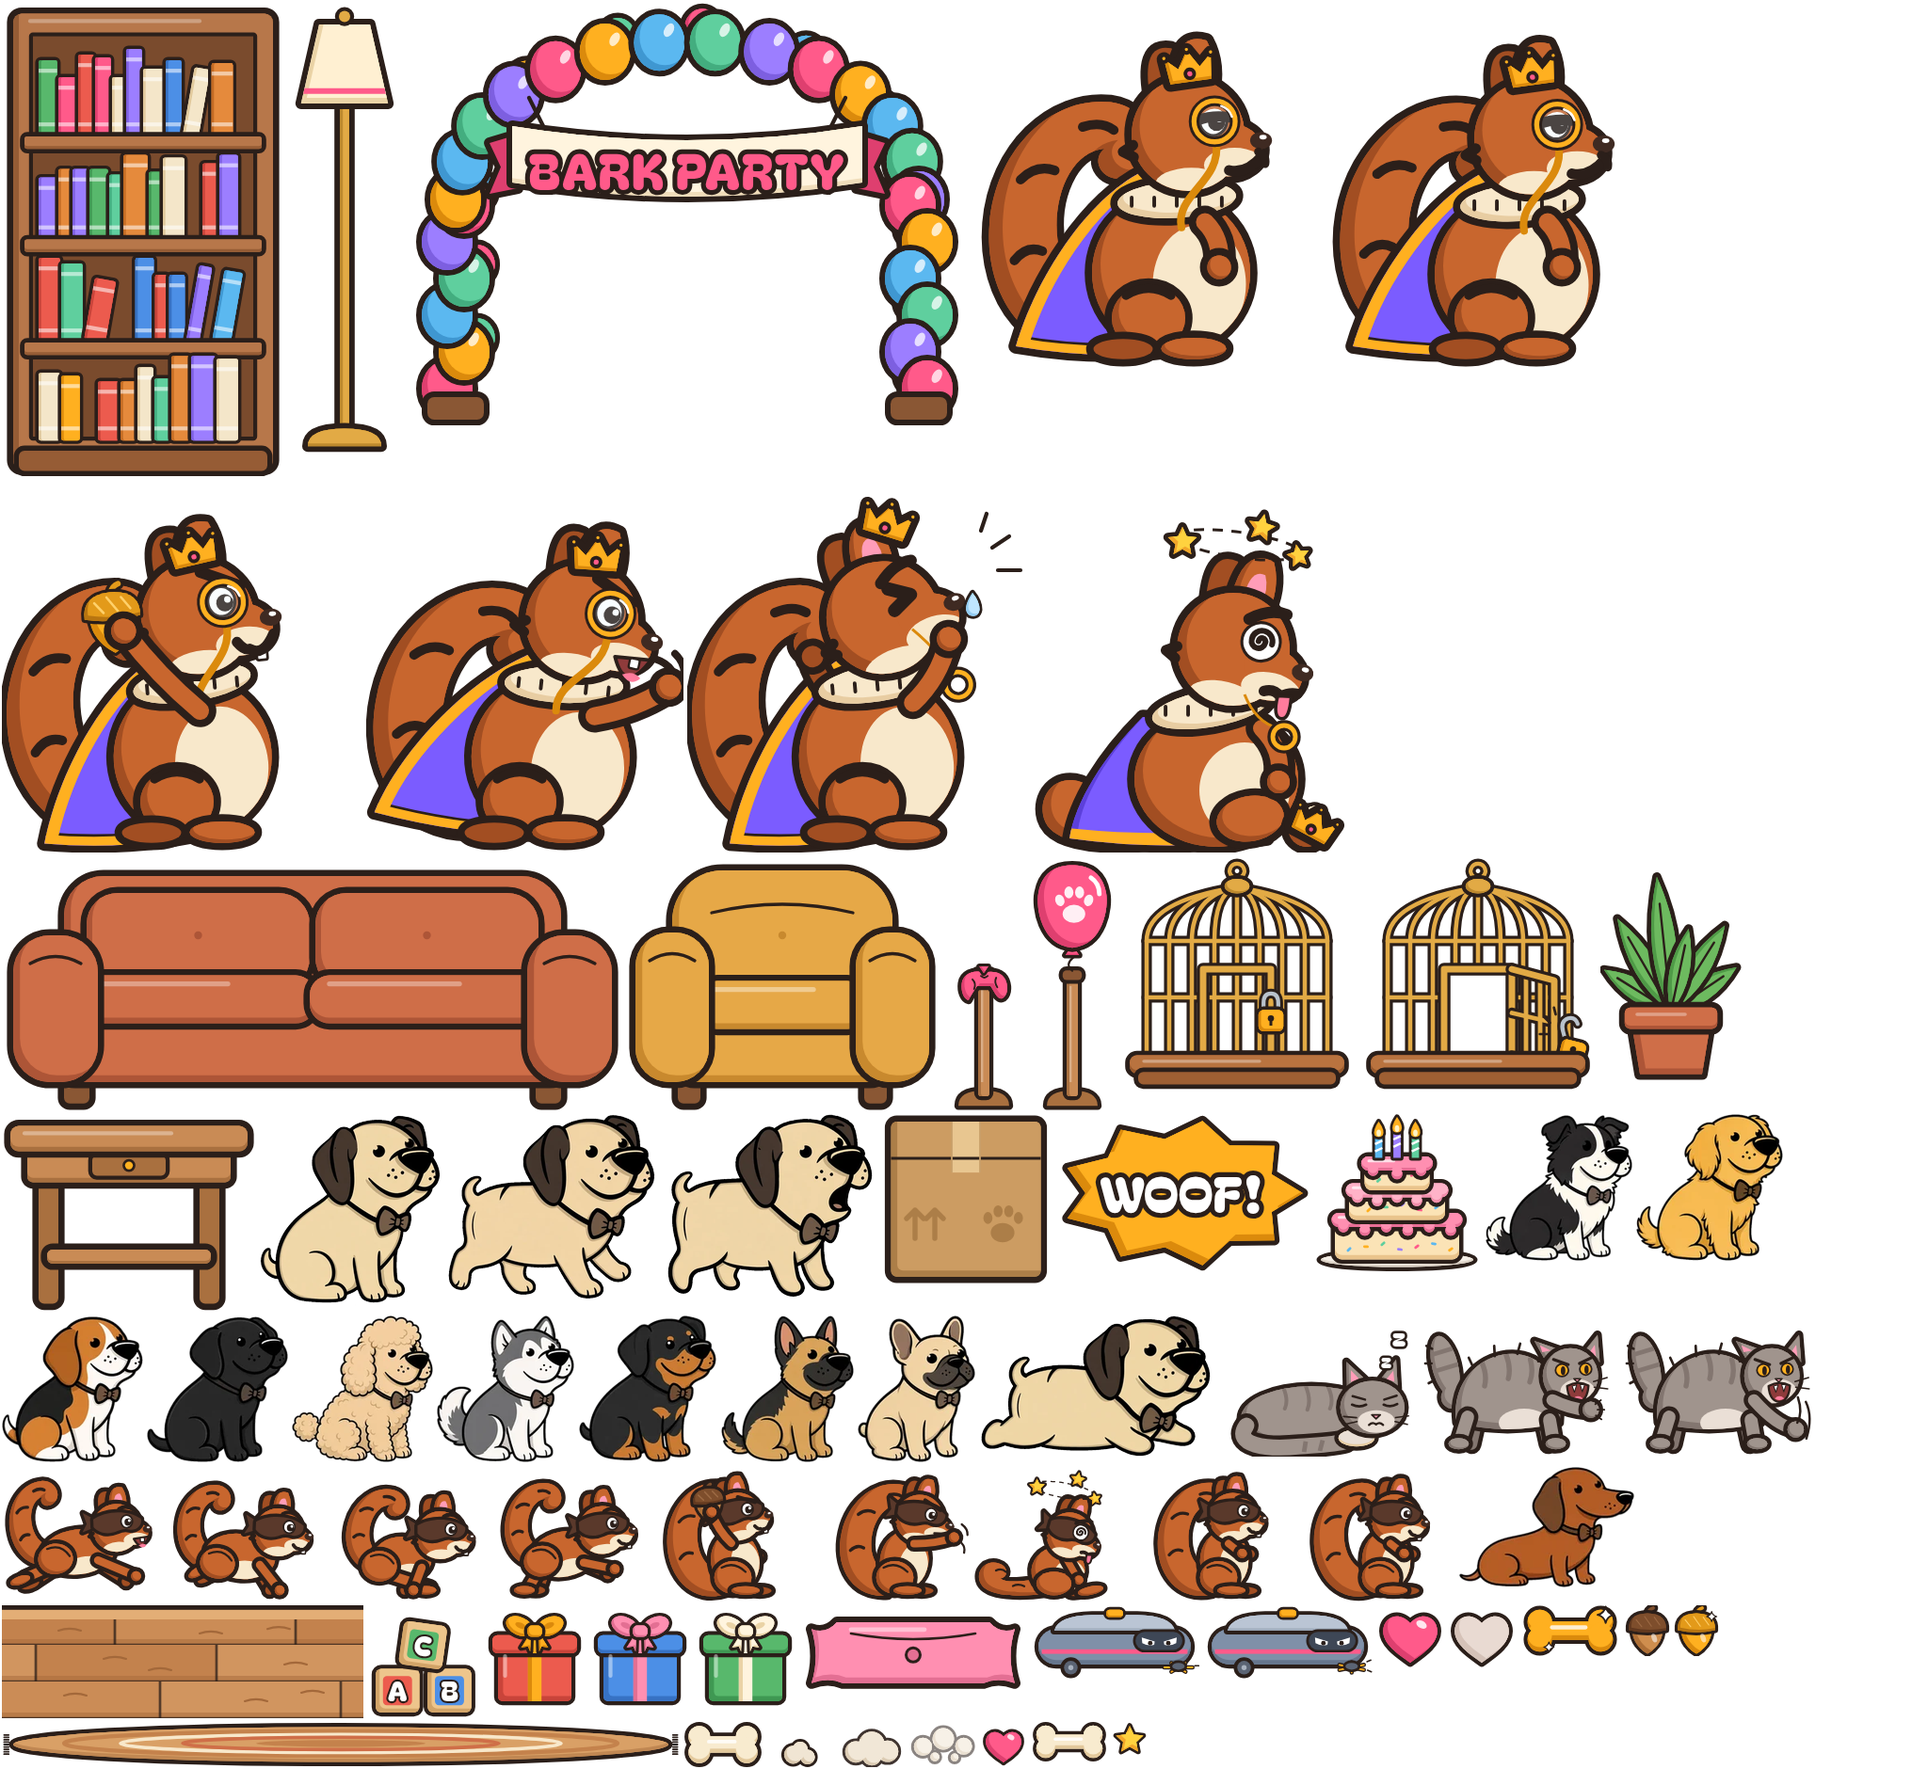
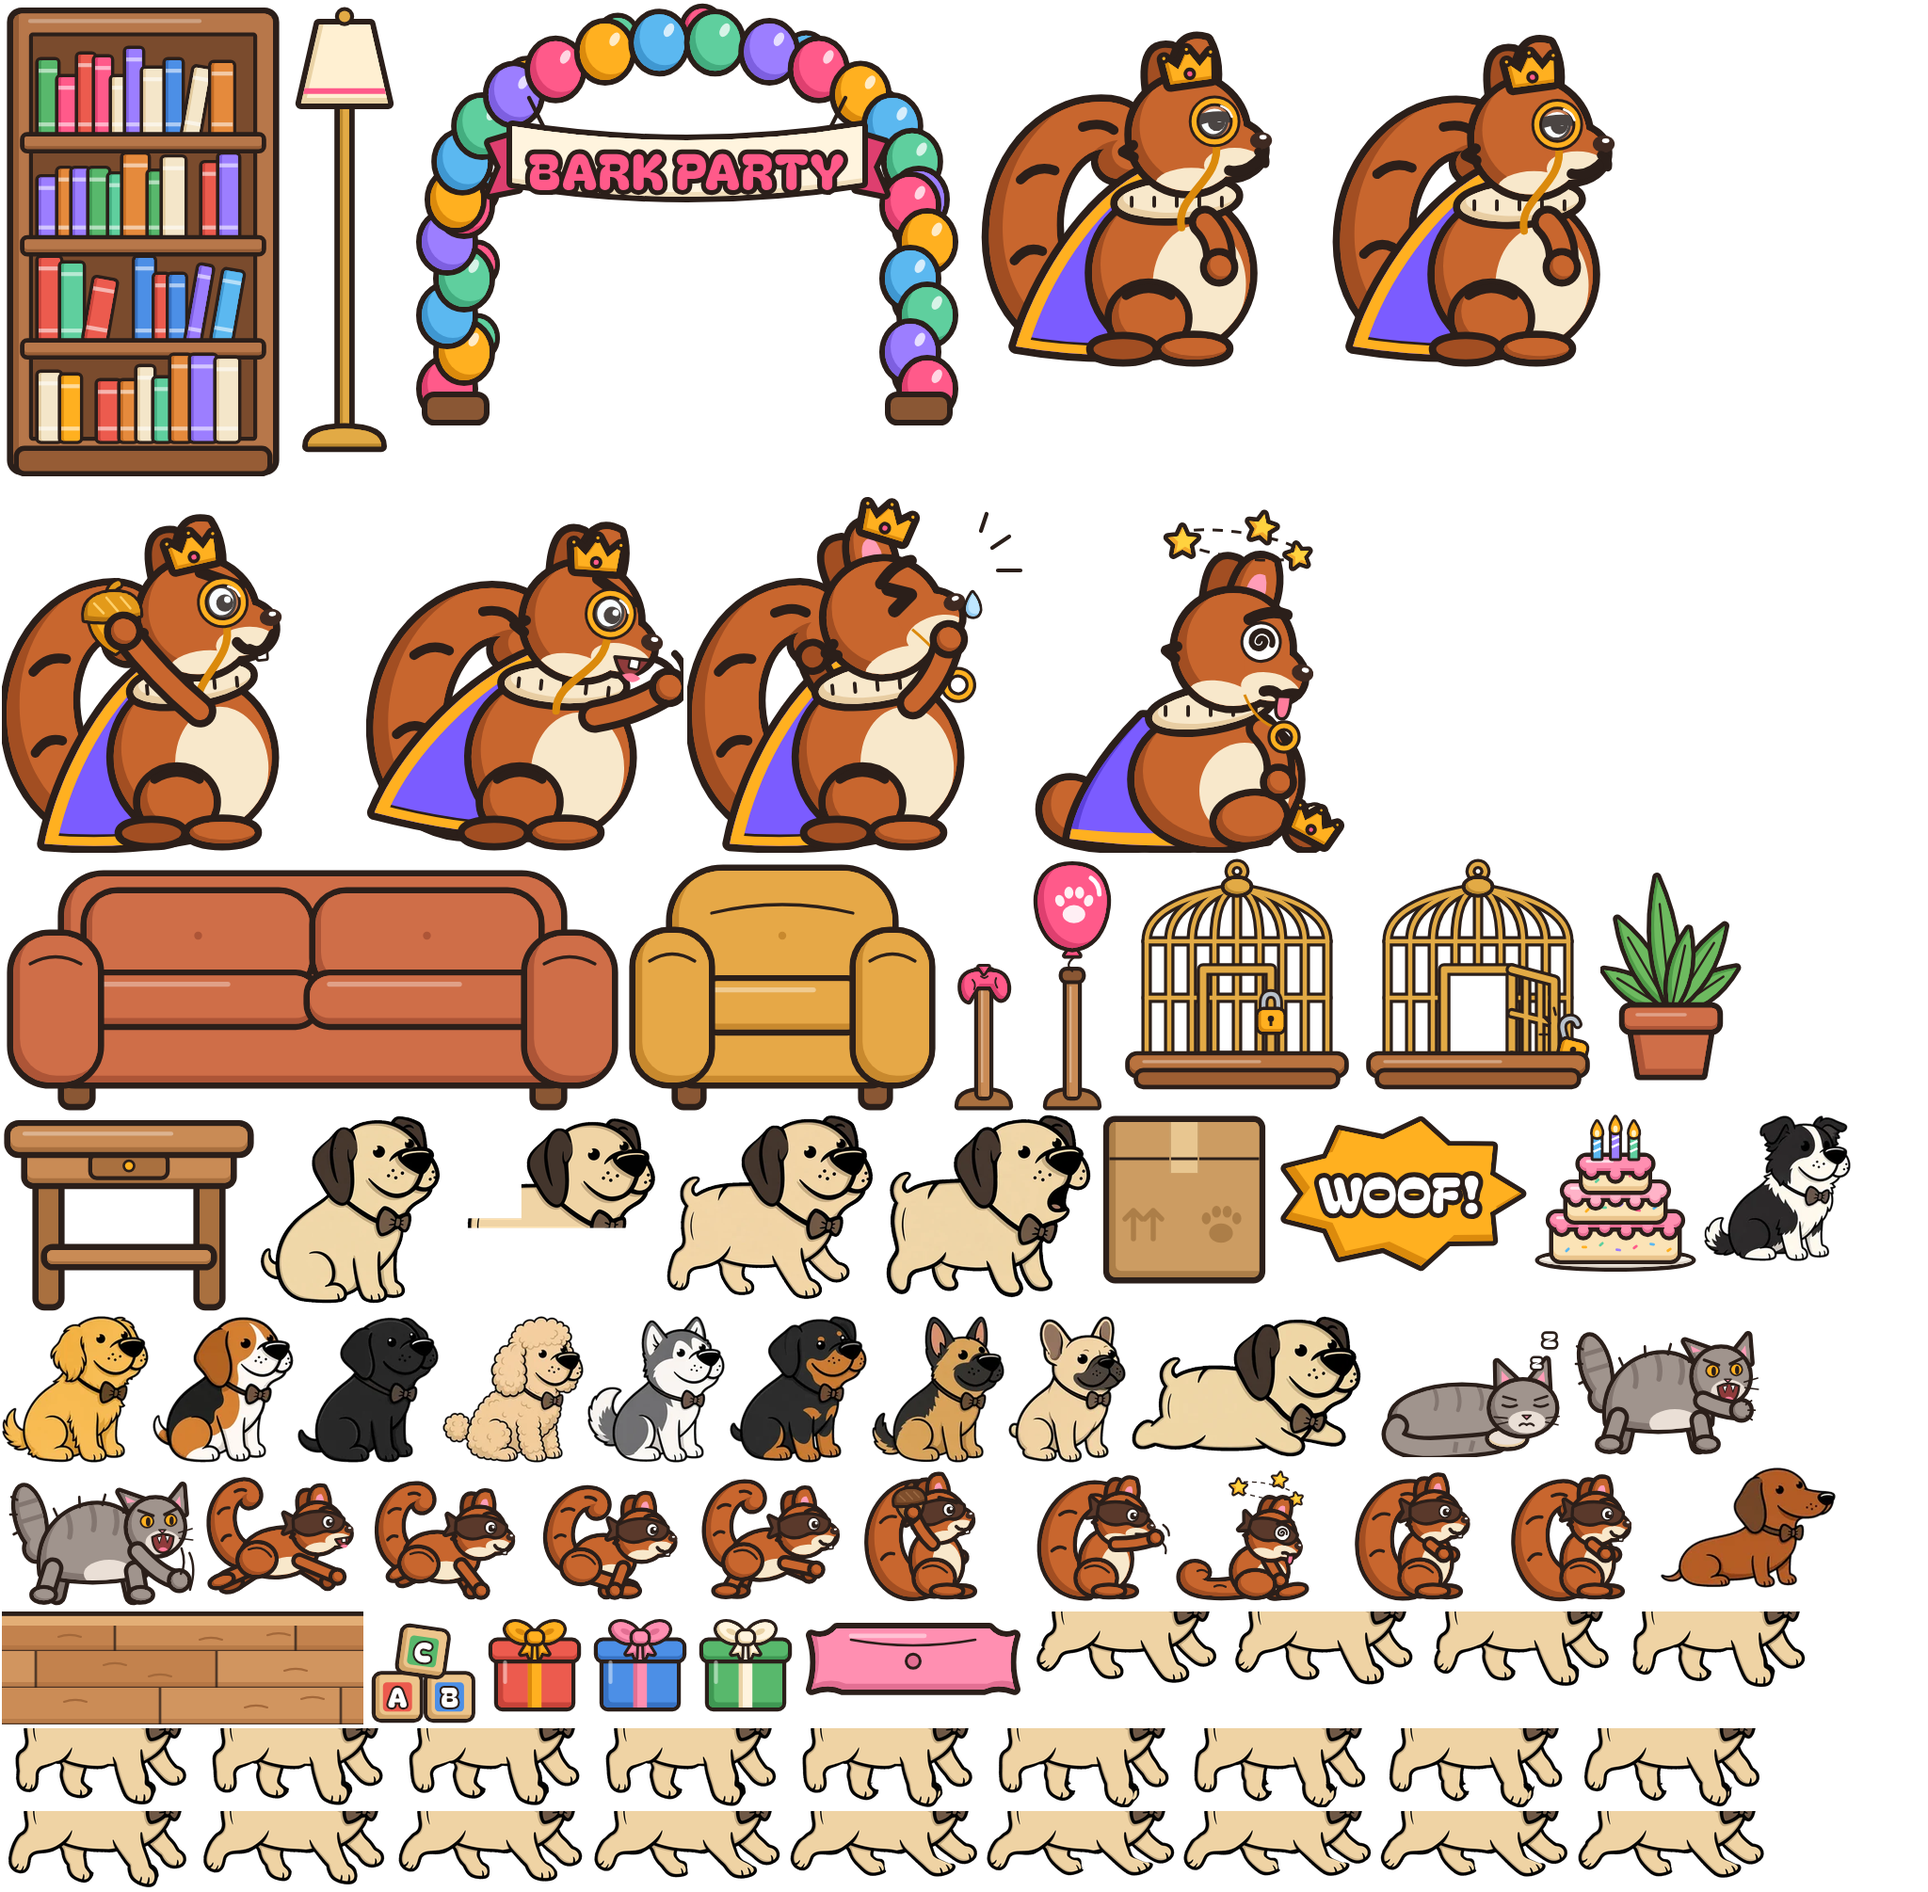
Run the hero with the real Dog Better pup puppet
The pup's body, 25-frame leg stride and tail wag from the Dog Better
puppet sheets are packed into the atlas and drawn as one piece that
squashes and tilts together. Legs follow distance run, tuck in the air
and stand still when blocked.

Claude-Session: https://claude.ai/code/session_011iqiMaCLxTqvjCP6GPtuAt

diff --git a/src/game/render/buildFrame.ts b/src/game/render/buildFrame.ts
@@ -221,7 +221,10 @@ export function buildFrame(world: World, setup: FrameSetup, out = new OpList()):
     sprite(dogSprite(dog), p.x - 30 - i * 6, y, { scale: 0.92, syScale: squash, sxScale: 1 / Math.sqrt(squash) });
   });
 
-  drawHero(world, sprite);
+  drawHero(world, sprite, (name, cx, cy, w, h, rot, alpha) => {
+    const f = atlas.frames[name];
+    if (f) out.push(f[0], f[1], f[2], f[3], f[4], sx(cx), sy(cy), w * k, h * k, rot, alpha, 0);
+  });
 
   // The boss.
   const b = world.boss;
@@ -259,7 +262,41 @@ type SpriteFn = (
   opts?: { flip?: boolean; rot?: number; alpha?: number; scale?: number; sxScale?: number; syScale?: number },
 ) => void;
 
-function drawHero(world: World, sprite: SpriteFn) {
+/** Draws a sprite centred at world (cx, cy) with an exact world size. */
+type PartFn = (name: SpriteName, cx: number, cy: number, w: number, h: number, rot: number, alpha: number) => void;
+
+// The Dog Better puppet: pieces placed in the walking sticker's 802 x 714 px canvas (pupFrames.json).
+const PUP_CANVAS = { w: 802, h: 714 };
+const PUP_S = SPRITES.pup_base.w / PUP_CANVAS.w;
+const LEGS_BOX = [6, 420, 728, 714];
+const TAIL_BOX = [72, 229, 292, 392];
+const LEG_FRAMES = 25;
+const TAIL_FRAMES = 11;
+
+function drawPuppet(
+  part: PartFn,
+  x: number,
+  y: number,
+  o: { rot: number; alpha: number; sxScale: number; syScale: number; legs: SpriteName; tail: number },
+) {
+  const H = SPRITES.pup_base.h * o.syScale;
+  const cos = Math.cos(o.rot);
+  const sin = Math.sin(o.rot);
+  // Place a piece by its box in canvas px: squash about the paws, then turn about the pup's middle.
+  const place = (name: SpriteName, box: number[]) => {
+    const bx = ((box[0] + box[2]) / 2 - PUP_CANVAS.w / 2) * PUP_S * o.sxScale;
+    const by = (PUP_CANVAS.h - (box[1] + box[3]) / 2) * PUP_S * o.syScale - H / 2;
+    const w = (box[2] - box[0]) * PUP_S * o.sxScale;
+    const h = (box[3] - box[1]) * PUP_S * o.syScale;
+    // Screen rotation is clockwise for positive angles; in world space (y up) that is the inverse turn.
+    part(name, x + bx * cos + by * sin, y + H / 2 - bx * sin + by * cos, w, h, o.rot, o.alpha);
+  };
+  place('pup_base', [0, 0, PUP_CANVAS.w, PUP_CANVAS.h]);
+  place(`pup_tail_${o.tail}` as SpriteName, TAIL_BOX);
+  place(o.legs, LEGS_BOX);
+}
+
+function drawHero(world: World, sprite: SpriteFn, part: PartFn) {
   const h = world.hero;
   if (world.phase === 'respawn' && world.phaseT < 0.9) return;
   const t = world.t;
@@ -278,8 +315,8 @@ function drawHero(world: World, sprite: SpriteFn) {
     case 'run': {
       // A bouncy gallop: two bounces per stride with a little rock.
       const phase = h.stride * Math.PI * 2;
-      lift = Math.abs(Math.sin(phase)) * 5;
-      rot = Math.sin(phase) * 0.06;
+      lift = Math.abs(Math.sin(phase)) * 2.5;
+      rot = Math.sin(phase) * 0.03;
       break;
     }
     case 'jump':
@@ -305,5 +342,15 @@ function drawHero(world: World, sprite: SpriteFn) {
       lift = Math.abs(Math.sin(t * 6)) * 14;
       break;
   }
-  sprite(name, h.x, h.y + lift, { rot, alpha: flicker, sxScale, syScale });
+  if (name !== 'pup_walk') {
+    sprite(name, h.x, h.y + lift, { rot, alpha: flicker, sxScale, syScale });
+    return;
+  }
+  // Running and airborne: the real Dog Better puppet, legs driven by distance run, tail always wagging.
+  let legs: SpriteName = `pup_leg_${Math.floor(h.stride * LEG_FRAMES) % LEG_FRAMES}` as SpriteName;
+  if (!h.onGround) legs = h.vy > 0 ? 'pup_leg_6' : 'pup_leg_18';
+  if (h.blocked) legs = 'pup_leg_rest';
+  // The tail sheet is one full wag, so it loops (2.4 wags a second while trotting, as in Dog Better).
+  const tail = Math.floor(t * 2.4 * (TAIL_FRAMES - 1)) % (TAIL_FRAMES - 1);
+  drawPuppet(part, h.x, h.y + lift, { rot, alpha: flicker, sxScale, syScale, legs, tail });
 }

diff --git a/src/game/sprites.ts b/src/game/sprites.ts
@@ -13,6 +13,45 @@ export const SPRITES = {
   pup_bark: { w: 76, h: 66 },
   pup_down: { w: 82, h: 50 },
   pup_sit: { w: 64, h: 68 },
+  // Dog Better pup puppet: body, leg stride (every other frame of 49), rest legs and tail wag.
+  pup_base: { w: 76, h: 67.66 },
+  pup_leg_0: { w: 68.42, h: 27.86 },
+  pup_leg_1: { w: 68.42, h: 27.86 },
+  pup_leg_2: { w: 68.42, h: 27.86 },
+  pup_leg_3: { w: 68.42, h: 27.86 },
+  pup_leg_4: { w: 68.42, h: 27.86 },
+  pup_leg_5: { w: 68.42, h: 27.86 },
+  pup_leg_6: { w: 68.42, h: 27.86 },
+  pup_leg_7: { w: 68.42, h: 27.86 },
+  pup_leg_8: { w: 68.42, h: 27.86 },
+  pup_leg_9: { w: 68.42, h: 27.86 },
+  pup_leg_10: { w: 68.42, h: 27.86 },
+  pup_leg_11: { w: 68.42, h: 27.86 },
+  pup_leg_12: { w: 68.42, h: 27.86 },
+  pup_leg_13: { w: 68.42, h: 27.86 },
+  pup_leg_14: { w: 68.42, h: 27.86 },
+  pup_leg_15: { w: 68.42, h: 27.86 },
+  pup_leg_16: { w: 68.42, h: 27.86 },
+  pup_leg_17: { w: 68.42, h: 27.86 },
+  pup_leg_18: { w: 68.42, h: 27.86 },
+  pup_leg_19: { w: 68.42, h: 27.86 },
+  pup_leg_20: { w: 68.42, h: 27.86 },
+  pup_leg_21: { w: 68.42, h: 27.86 },
+  pup_leg_22: { w: 68.42, h: 27.86 },
+  pup_leg_23: { w: 68.42, h: 27.86 },
+  pup_leg_24: { w: 68.42, h: 27.86 },
+  pup_leg_rest: { w: 68.42, h: 27.86 },
+  pup_tail_0: { w: 20.85, h: 15.45 },
+  pup_tail_1: { w: 20.85, h: 15.45 },
+  pup_tail_2: { w: 20.85, h: 15.45 },
+  pup_tail_3: { w: 20.85, h: 15.45 },
+  pup_tail_4: { w: 20.85, h: 15.45 },
+  pup_tail_5: { w: 20.85, h: 15.45 },
+  pup_tail_6: { w: 20.85, h: 15.45 },
+  pup_tail_7: { w: 20.85, h: 15.45 },
+  pup_tail_8: { w: 20.85, h: 15.45 },
+  pup_tail_9: { w: 20.85, h: 15.45 },
+  pup_tail_10: { w: 20.85, h: 15.45 },
 
   // Dog Better breed dogs (sitting portraits), used for rescued friends
   dog_beagle: { w: 50, h: 52 },

diff --git a/src/game/sim/world.ts b/src/game/sim/world.ts
@@ -344,7 +344,7 @@ function stepHero(world: World, input: Input, dt: number) {
   else if (!h.onGround) h.pose = h.vy > 0 ? 'jump' : 'fall';
   else h.pose = 'run';
 
-  if (h.onGround && h.vx > 0) h.stride = (h.stride + (h.vx * dt) / 120) % 1;
+  if (h.onGround && h.vx > 0) h.stride = (h.stride + (h.vx * dt) / 90) % 1;
 }
 
 function bark(world: World) {

diff --git a/src/game/render/atlasImages.ts b/src/game/render/atlasImages.ts
@@ -1,4 +1,5 @@
 // Generated by tools/pack_atlas.py. Do not edit.
 export const ATLAS_PAGES = [
   require('../../../assets/game/atlas/atlas_0.png'),
+  require('../../../assets/game/atlas/atlas_1.png'),
 ];

diff --git a/tools/pack_atlas.py b/tools/pack_atlas.py
@@ -37,6 +37,32 @@ for breed in ['beagle', 'collie', 'dachshund', 'frenchie', 'golden', 'husky', 'l
     DOGBETTER[f'dog_{breed}'] = f'dog_{breed}.webp'
 
 
+PUP_DIR = os.path.join(ROOT, 'art/dogbetter-pup')
+
+
+def pup_parts():
+    """Cuts the Dog Better puppet sheets (art/dogbetter-pup) into named full-res frames."""
+    if not os.path.exists(os.path.join(PUP_DIR, 'pupFrames.json')):
+        return {}
+    meta = json.load(open(os.path.join(PUP_DIR, 'pupFrames.json')))
+    parts = {'pup_base': Image.open(os.path.join(PUP_DIR, 'base.png')).convert('RGBA')}
+
+    def cut(sheet, info, i):
+        cols = info['cols']
+        fw, fh = info['frame']
+        c, r = i % cols, i // cols
+        return sheet.crop((c * fw, r * fh, c * fw + fw, r * fh + fh))
+
+    legs = Image.open(os.path.join(PUP_DIR, 'legs.png')).convert('RGBA')
+    for i in range(25):
+        parts[f'pup_leg_{i}'] = cut(legs, meta['legsSheet'], i * 2)
+    parts['pup_leg_rest'] = cut(legs, meta['legsSheet'], meta['rest'])
+    tail = Image.open(os.path.join(PUP_DIR, 'tail.png')).convert('RGBA')
+    for i in range(meta['tail']):
+        parts[f'pup_tail_{i}'] = cut(tail, meta['tailSheet'], i)
+    return parts
+
+
 def sprite_sizes():
     """Reads world sizes from src/game/sprites.ts so the two never drift apart."""
     src = open(os.path.join(ROOT, 'src/game/sprites.ts')).read()
@@ -57,8 +83,13 @@ def trim(im):
 def load_all(sizes):
     images = {}
     missing = []
+    parts = pup_parts()
     for name, (w, h) in sizes.items():
         target = (max(1, round(w * PX)), max(1, round(h * PX)))
+        if name in parts:
+            # Puppet pieces keep their exact boxes (no trim) so they line up on the body.
+            images[name] = parts[name].resize(target, Image.LANCZOS)
+            continue
         if name in DOGBETTER:
             path = os.path.join(DB_DIR, DOGBETTER[name])
             im = trim(Image.open(path).convert('RGBA'))
